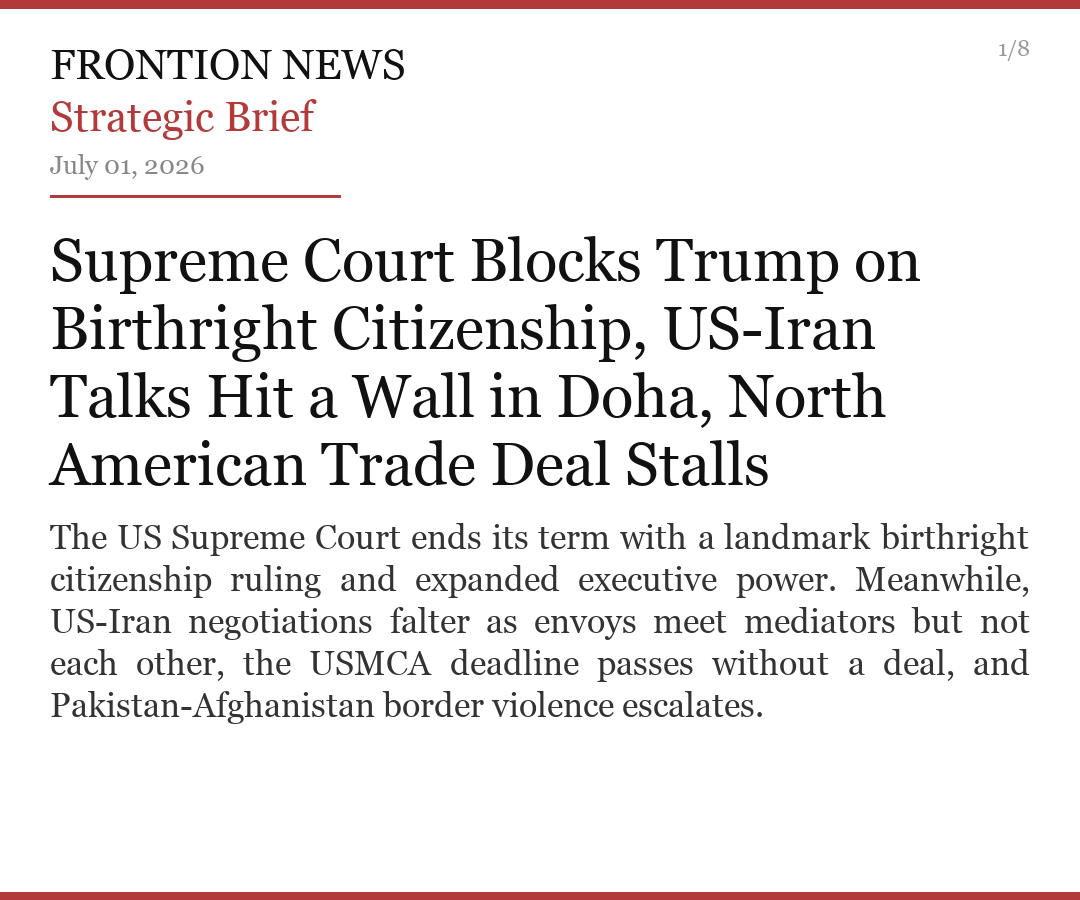
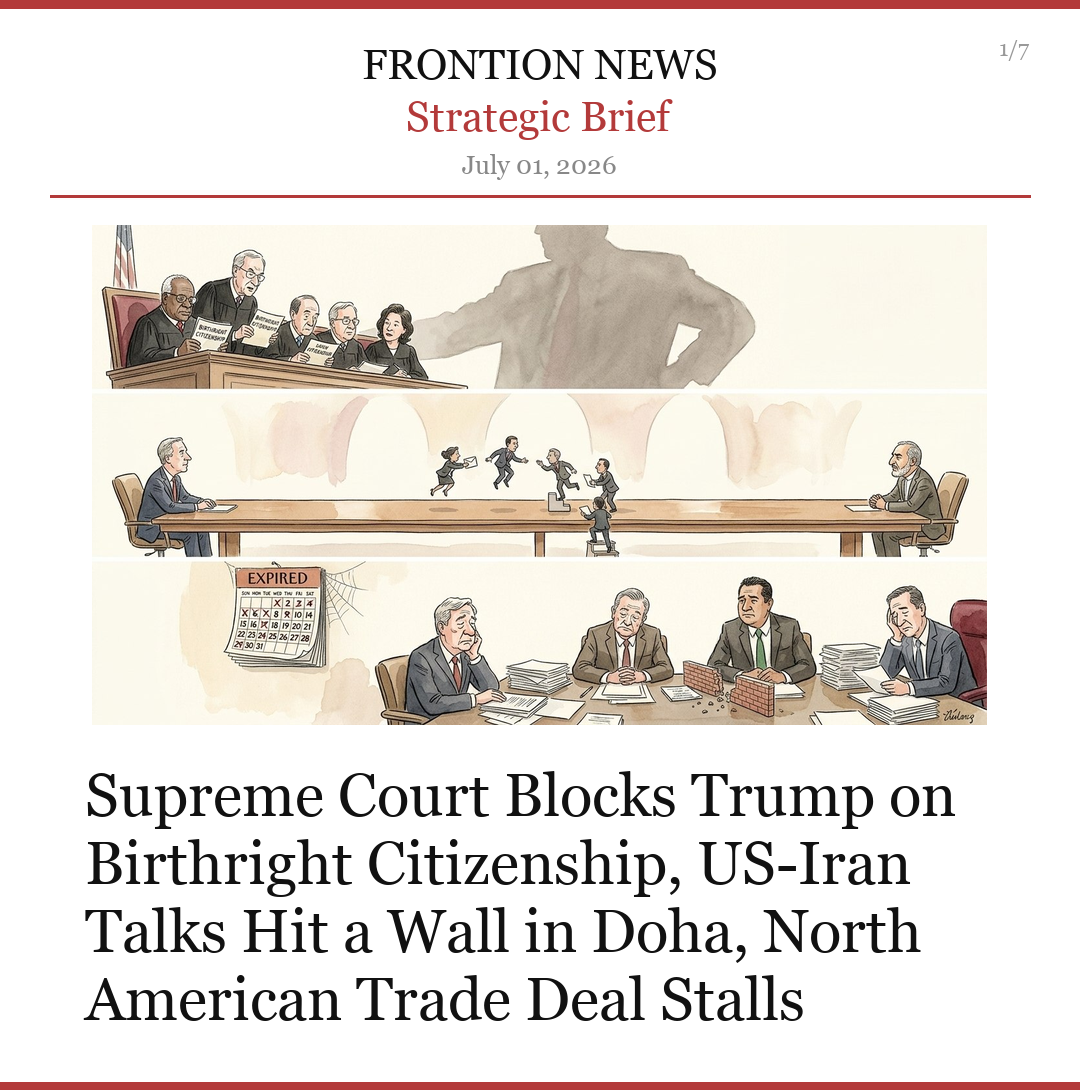
feat: BLUF card with hero image, centered header, no subhead

Changed region(s): [[0.0306, 0.0311, 0.9472, 0.9333], [0.9167, 0.0311, 0.9472, 0.0622]]

diff --git a/linkedin_cards.py b/linkedin_cards.py
@@ -148,12 +148,23 @@ def draw_justified(draw, lines, x, y, font, fill, max_width, line_height):
 
 
 def draw_header(draw, date_display, source_label="Strategic Brief"):
-    """Draw the common header (brand + date)."""
+    """Draw the common header (brand + date), centered."""
     draw.rectangle([0, 0, WIDTH, 8], fill=ACCENT_COLOR)
-    draw.text((MARGIN_X, 40), "FRONTION NEWS", fill=TEXT_COLOR, font=BRAND_FONT)
-    draw.text((MARGIN_X, 92), source_label, fill=ACCENT_COLOR, font=BRAND_FONT)
-    draw.text((MARGIN_X, 150), date_display, fill=DATE_COLOR, font=SMALL_FONT)
-    draw.rectangle([MARGIN_X, 195, 340, 197], fill=ACCENT_COLOR)
+    # Center FRONTION NEWS
+    brand_text = "FRONTION NEWS"
+    brand_bbox = draw.textbbox((0, 0), brand_text, font=BRAND_FONT)
+    brand_w = brand_bbox[2] - brand_bbox[0]
+    draw.text(((WIDTH - brand_w) // 2, 40), brand_text, fill=TEXT_COLOR, font=BRAND_FONT)
+    # Center source label
+    source_bbox = draw.textbbox((0, 0), source_label, font=BRAND_FONT)
+    source_w = source_bbox[2] - source_bbox[0]
+    draw.text(((WIDTH - source_w) // 2, 92), source_label, fill=ACCENT_COLOR, font=BRAND_FONT)
+    # Center date
+    date_bbox = draw.textbbox((0, 0), date_display, font=SMALL_FONT)
+    date_w = date_bbox[2] - date_bbox[0]
+    draw.text(((WIDTH - date_w) // 2, 150), date_display, fill=DATE_COLOR, font=SMALL_FONT)
+    # Centered divider line
+    draw.rectangle([MARGIN_X, 195, WIDTH - MARGIN_X, 197], fill=ACCENT_COLOR)
 
 
 def draw_page_number(draw, page_num, total_pages, height):
@@ -170,19 +181,53 @@ def draw_footer(draw, height):
 
 
 def generate_bluf_card(brief, date_str, page_num, total_pages, source_label="Strategic Brief"):
-    """Generate BLUF card image."""
+    """Generate BLUF card image with optional hero image.
+    
+    If hero image is present: shows header + hero image + title only (no subhead).
+    Title is placed further below the image with more breathing room.
+    Hero image uses full width (95%).
+    If no hero image: shows header + title + subhead (classic layout).
+    """
     title = brief.get("title", "")
     subhead = brief.get("subhead", "")
     date_display = format_date_display(date_str)
+    hero_image_path = brief.get("heroImage")
 
-    # Calculate height
+    # Calculate text heights
     tmp_img = Image.new("RGB", (WIDTH, 100), BG_COLOR)
     tmp_draw = ImageDraw.Draw(tmp_img)
     title_lines = wrap_text(tmp_draw, title, HEADLINE_FONT, MAX_TEXT_WIDTH)
     subhead_lines = wrap_text(tmp_draw, subhead, BODY_FONT, MAX_TEXT_WIDTH)
 
-    total_h = 8 + 200 + 15 + len(title_lines) * 68 + 30 + len(subhead_lines) * 42 + 40
-    total_h = max(total_h, 900)
+    # Hero image height if present
+    hero_height = 0
+    hero_pil = None
+    has_hero = False
+    if hero_image_path:
+        full_path = SITE_DIR / hero_image_path.lstrip("/")
+        if full_path.exists():
+            hero_pil = Image.open(full_path).convert("RGB")
+            # Scale hero to 95% width, maintain aspect ratio — bigger!
+            target_w = int(WIDTH * 0.95)
+            ratio = target_w / hero_pil.width
+            target_h = int(hero_pil.height * ratio)
+            # Cap hero height at 500px for more presence
+            if target_h > 500:
+                ratio = 500 / hero_pil.height
+                target_w = int(hero_pil.width * ratio)
+                target_h = 500
+            hero_pil = hero_pil.resize((target_w, target_h), Image.LANCZOS)
+            hero_height = target_h + 15  # image + small gap
+            has_hero = True
+
+    if has_hero:
+        # Hero layout: header + hero + gap + title only (no subhead)
+        total_h = 8 + 200 + 15 + hero_height + 20 + len(title_lines) * 68 + 60
+        total_h = max(total_h, 900)
+    else:
+        # Classic layout: header + title + subhead
+        total_h = 8 + 200 + 15 + len(title_lines) * 68 + 30 + len(subhead_lines) * 42 + 40
+        total_h = max(total_h, 900)
 
     img = Image.new("RGB", (WIDTH, total_h), color=BG_COLOR)
     draw = ImageDraw.Draw(img)
@@ -191,14 +236,27 @@ def generate_bluf_card(brief, date_str, page_num, total_pages, source_label="Str
     draw_page_number(draw, page_num, total_pages, total_h)
 
     y = 225
+
+    # Draw hero image if present
+    if hero_pil:
+        x_offset = (WIDTH - hero_pil.width) // 2
+        img.paste(hero_pil, (x_offset, y))
+        y += hero_height
+        # Small gap between hero and title
+        y += 20
+
+    TITLE_MARGIN_X = MARGIN_X + 35  # Slight indent for title when hero is present
+
     title_wrapped = wrap_text(draw, title, HEADLINE_FONT, MAX_TEXT_WIDTH)
+    title_x = TITLE_MARGIN_X if has_hero else MARGIN_X
     for line in title_wrapped:
-        draw.text((MARGIN_X, y), line, fill=TEXT_COLOR, font=HEADLINE_FONT)
+        draw.text((title_x, y), line, fill=TEXT_COLOR, font=HEADLINE_FONT)
         y += 68
 
-    y += 20
-    subhead_wrapped = wrap_text(draw, subhead, BODY_FONT, MAX_TEXT_WIDTH)
-    y = draw_justified(draw, subhead_wrapped, MARGIN_X, y, BODY_FONT, SUBTEXT_COLOR, MAX_TEXT_WIDTH, 42)
+    if not has_hero:
+        y += 20
+        subhead_wrapped = wrap_text(draw, subhead, BODY_FONT, MAX_TEXT_WIDTH)
+        y = draw_justified(draw, subhead_wrapped, MARGIN_X, y, BODY_FONT, SUBTEXT_COLOR, MAX_TEXT_WIDTH, 42)
 
     y += 40
     draw_footer(draw, total_h)